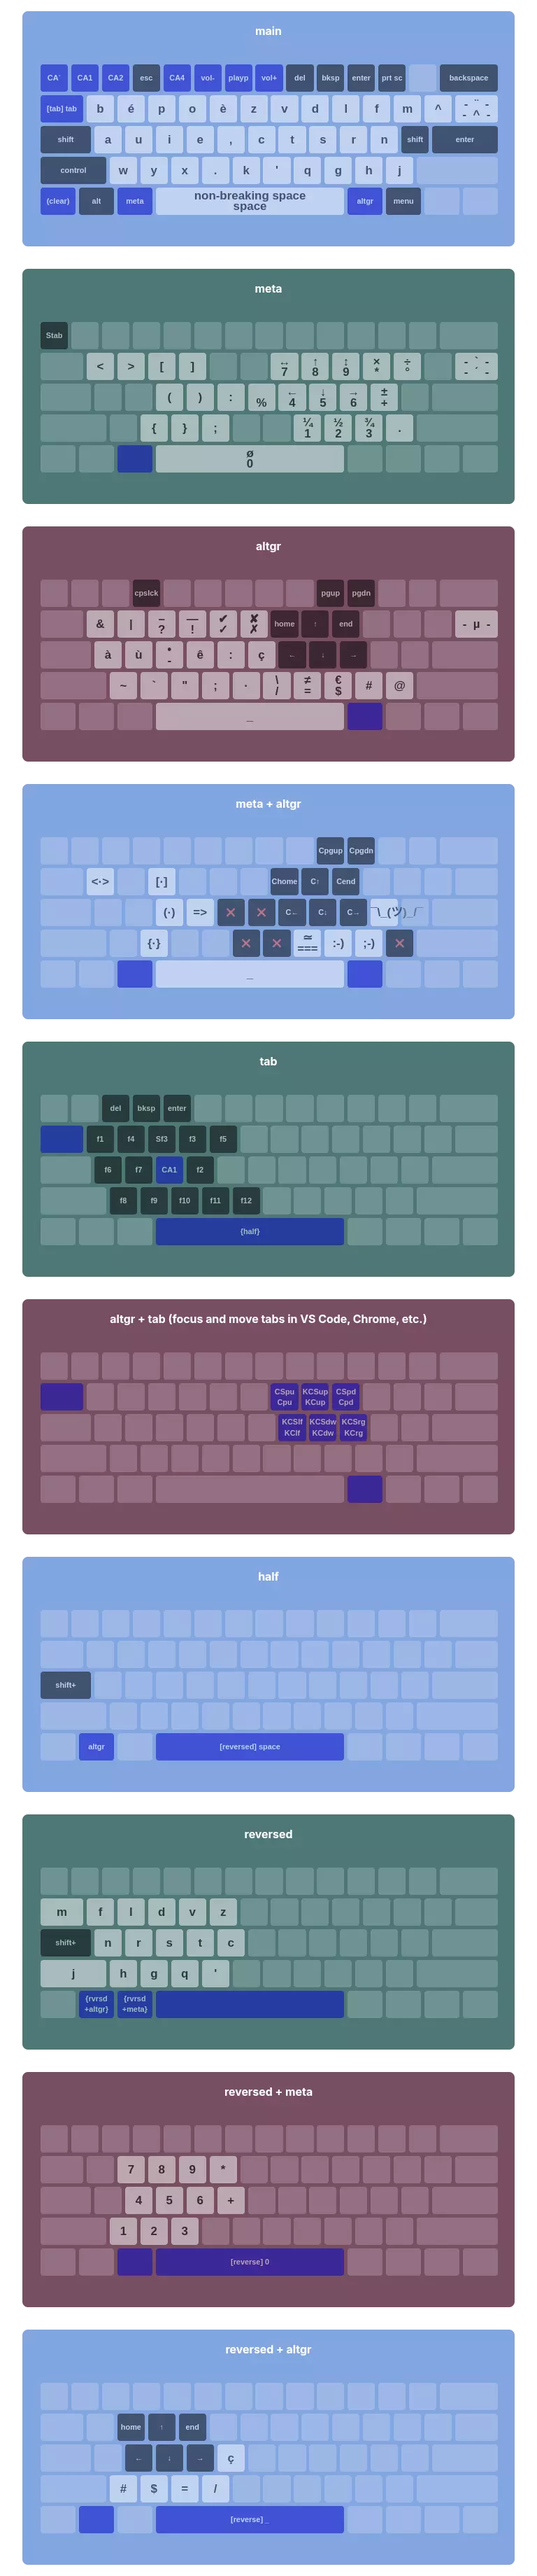
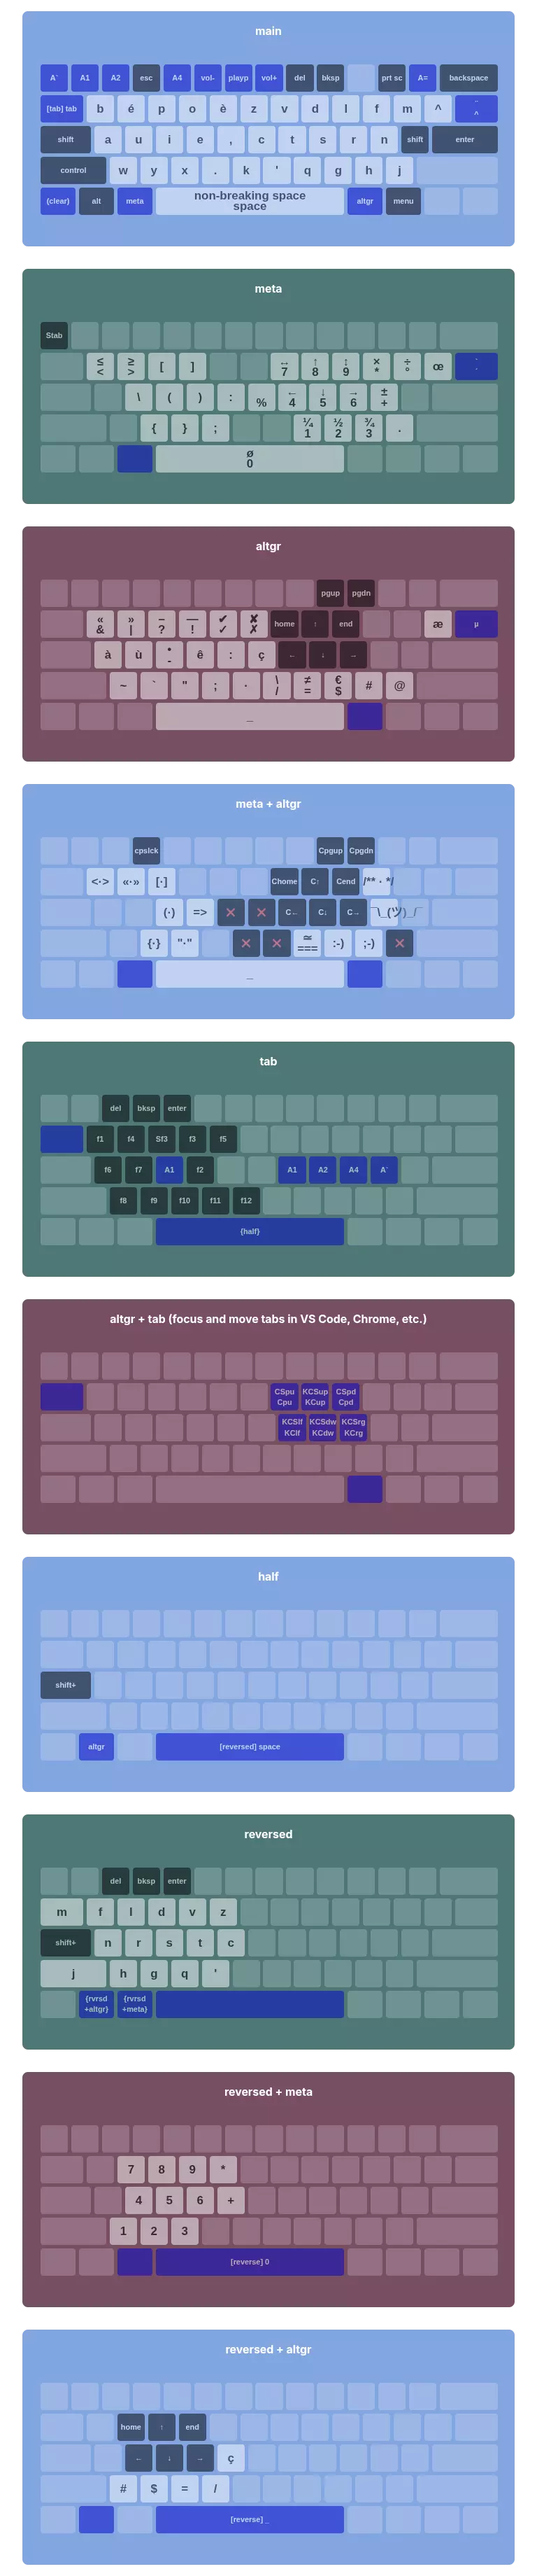
Add a few missing characters
Also replace `Ctrl+Alt+<key>` shortcuts with `Alt+<key>` to prevent VS Code from showing inlay types, which sometimes get stuck. (The inlay type shortcut is `Ctrl+Alt` and is not configurable.)

diff --git a/README.md b/README.md
@@ -36,12 +36,11 @@ Key functions:
 - `{layer}`: toggles `layer` (`layer` stays active until toggled back, or `clear` is called)
 - `layer+`: activates `layer` if hold, and also for the next key press if tapped
 - `(function)`: runs `function`, example: `(clear)` restores the `main` layer
-- `- key -`: `key` is a dead key
-- `key1 · key2`: enters `key1`, `key2`, and `left`, to place the cursor between `key1` and `key2`
+- `key1·key2`: enters `key1`, `key2`, and `left`, to place the cursor between `key1` and `key2`
 
 <div align="center">
 
-![](/src/keyfab/Bepo-Code.png)
+![](/src/keyfab/Bepo-Code.webp)
 
 _Image created using [jaroslaw-weber.github.io/keyfab](https://jaroslaw-weber.github.io/keyfab)._
 
